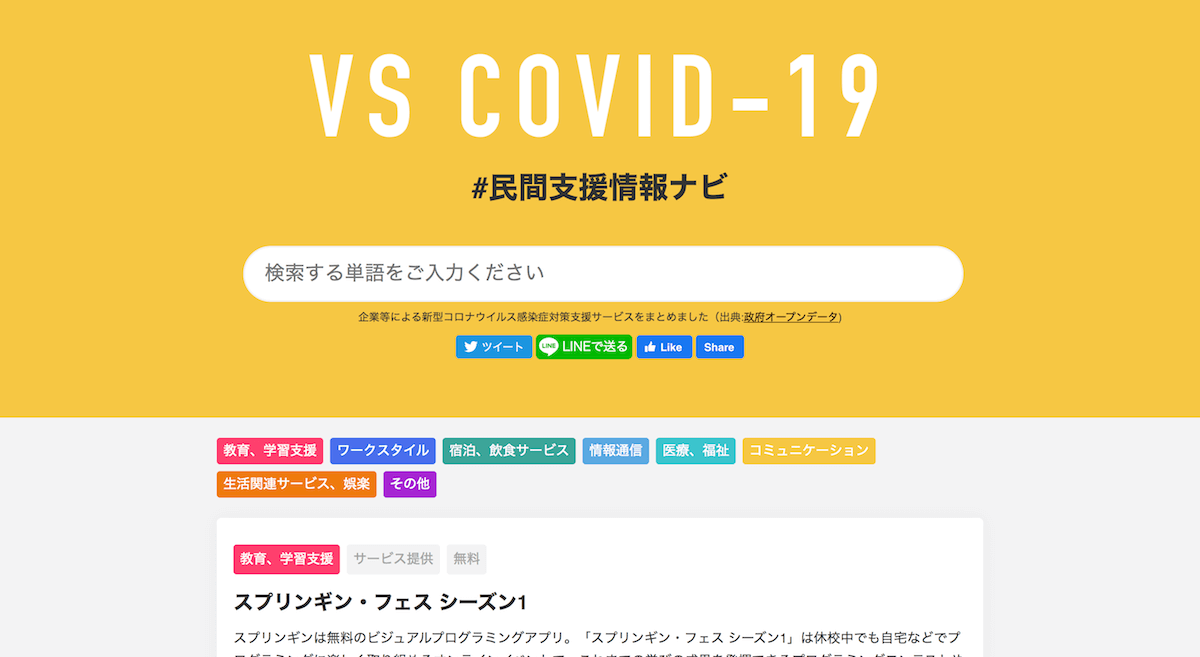
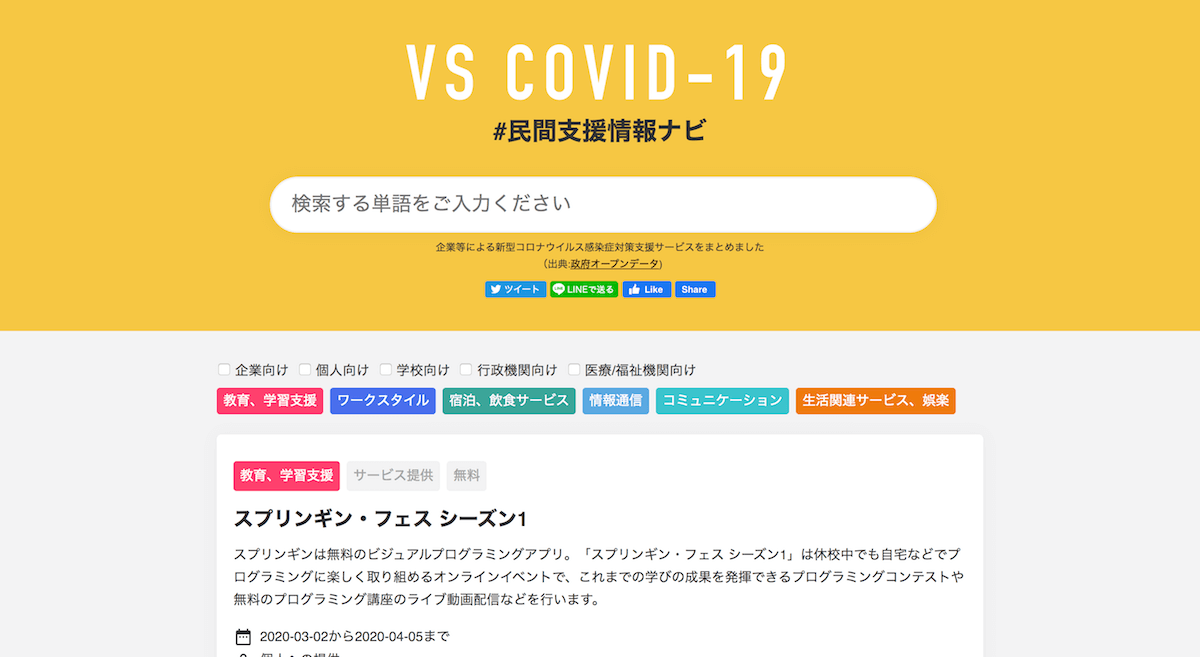
:+1: Update main image

diff --git a/src/index.html b/src/index.html
@@ -16,7 +16,7 @@
     <meta property="og:type"          content="website" />
     <meta property="og:title"         content="VS COVID-19 #民間支援情報ナビ" />
     <meta property="og:description"   content="企業等による新型コロナウイルス感染症対策支援サービスまとめ" />
-    <meta property="og:image"         content="https://user-images.githubusercontent.com/19779874/76697989-f5c11280-66e0-11ea-9ad9-79b55d190478.png" />
+    <meta property="og:image"         content="https://user-images.githubusercontent.com/19779874/76723282-0d080a80-678a-11ea-85a4-a0276aced1cb.png" />
     <meta name="twitter:card" content="summary_large_image">
     <title>VS COVID-19 #民間支援情報ナビ</title>
   </head>

diff --git a/README.md b/README.md
@@ -1,5 +1,6 @@
 # VS COVID-19 企業による支援リスト
-[![](./src/assets/images/vscovid19.png)](./src/assets/images/vscovid19.png))
+[![](./src/assets/images/vscovid19.png)](./src/assets/images/vscovid19.png)
+
 
 DATA: CC0 [企業などによる支援一覧](https://docs.google.com/spreadsheets/d/1IiHUk3D_b6e5BfqFG3ZBxQ8X-QVACdY7CeQeG6C7S1w/)
 *※政府の公開する企業等による支援情報のオープンデータに加え、提供されているサービスを公開資料を基に整理したものであり、支援サービスをすべて網羅しているわけではありません。また、空欄は公開情報に明確に情報が記載されていないため空欄にしており、その内容がないというわけではありません。またサービスの問い合わせ等は直接支援企業にお問い合わせ下さい。推奨ブラウザは、Chrome/Safariの最新版です。ブラウザによっては、動作しないことがあります。
